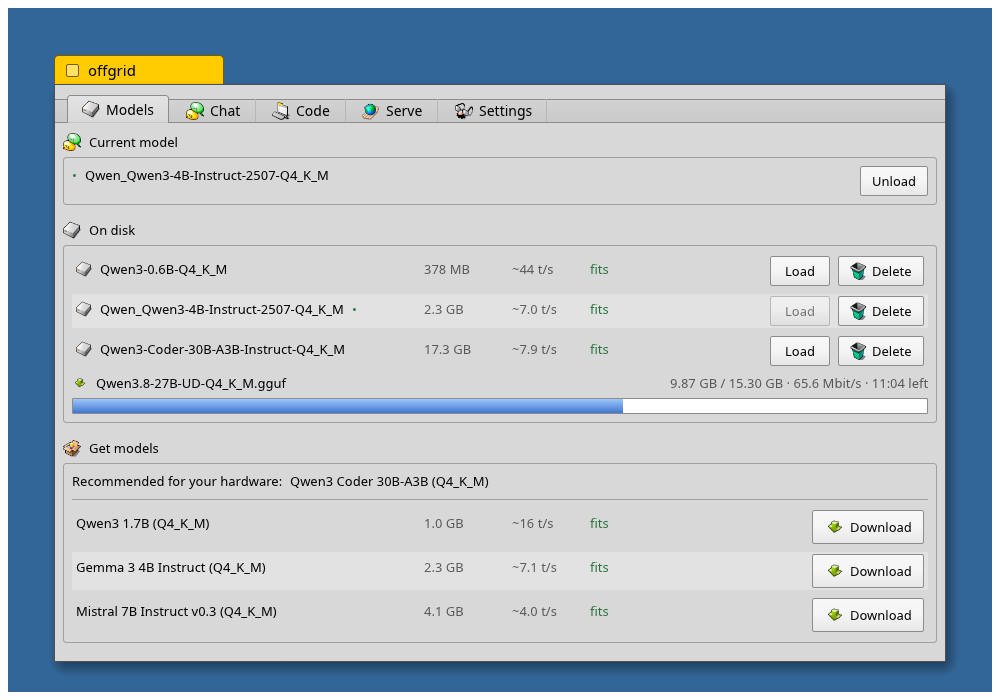
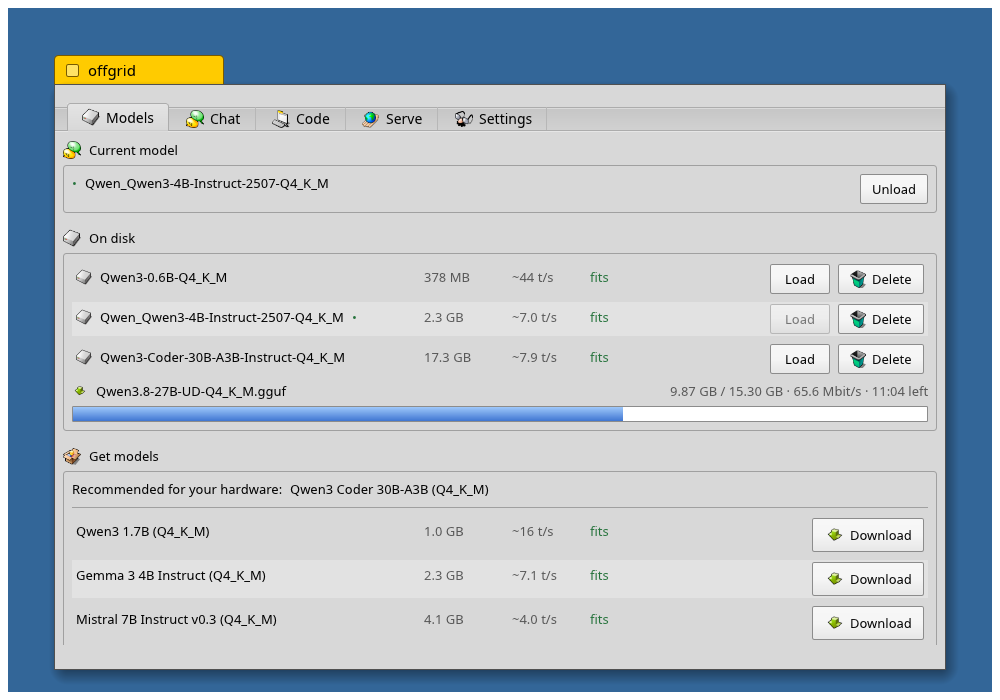
Tab bar refinements from the Haiku reference
- More headroom above the tabs
- Strip gradient inverted: darker at the top, lightening downward
- Fainter tab strokes (new tab_border skin color) with embossed edges:
  each dark line paired with a translucent light line beneath

diff --git a/src/theme.rs b/src/theme.rs
@@ -83,6 +83,8 @@ pub struct Skin {
     pub tab_active_top: Color32,
     /// Faint vertical divider between inactive tabs.
     pub tab_divider: Color32,
+    /// Faint outline for tabs/strip edges (embossed look).
+    pub tab_border: Color32,
     /// Primary accent (links, checkbox marks, selection stroke).
     pub accent: Color32,
     pub selection: Color32,
@@ -111,10 +113,11 @@ pub const HAIKU: Skin = Skin {
     window_border: Color32::from_rgb(80, 80, 80),
     title: Color32::from_rgb(255, 203, 0),
     title_border: Color32::from_rgb(120, 90, 0),
-    tab_strip_top: Color32::from_rgb(211, 211, 211),
-    tab_strip_bottom: Color32::from_rgb(201, 201, 201),
+    tab_strip_top: Color32::from_rgb(197, 197, 197),
+    tab_strip_bottom: Color32::from_rgb(209, 209, 209),
     tab_active_top: Color32::from_rgb(228, 228, 228),
     tab_divider: Color32::from_rgb(183, 183, 183),
+    tab_border: Color32::from_rgb(172, 172, 172),
     accent: Color32::from_rgb(51, 102, 152),
     selection: Color32::from_rgb(170, 200, 235),
     progress_top: Color32::from_rgb(158, 200, 250),
@@ -141,10 +144,11 @@ pub const EGUI_DEFAULT: Skin = Skin {
     window_border: Color32::from_gray(60),
     title: Color32::from_gray(60),
     title_border: Color32::from_gray(90),
-    tab_strip_top: Color32::from_gray(34),
-    tab_strip_bottom: Color32::from_gray(22),
+    tab_strip_top: Color32::from_gray(20),
+    tab_strip_bottom: Color32::from_gray(32),
     tab_active_top: Color32::from_gray(40),
     tab_divider: Color32::from_gray(55),
+    tab_border: Color32::from_gray(60),
     accent: Color32::from_rgb(110, 170, 255),
     selection: Color32::from_rgb(0, 92, 128),
     progress_top: Color32::from_rgb(110, 170, 255),
@@ -170,10 +174,11 @@ pub const MATERIAL: Skin = Skin {
     window_border: Color32::from_rgb(0xdf, 0xe3, 0xea),
     title: Color32::from_rgb(0xe9, 0xed, 0xf3),
     title_border: Color32::from_rgb(0xdf, 0xe3, 0xea),
-    tab_strip_top: Color32::from_rgb(0xee, 0xf1, 0xf6),
-    tab_strip_bottom: Color32::from_rgb(0xe4, 0xe8, 0xef),
+    tab_strip_top: Color32::from_rgb(0xe4, 0xe8, 0xef),
+    tab_strip_bottom: Color32::from_rgb(0xee, 0xf1, 0xf6),
     tab_active_top: Color32::WHITE,
     tab_divider: Color32::from_rgb(0xd5, 0xda, 0xe2),
+    tab_border: Color32::from_rgb(0xd0, 0xd6, 0xde),
     accent: Color32::from_rgb(0x11, 0x72, 0xdc),
     selection: Color32::from_rgb(0xc4, 0xe1, 0xfb),
     progress_top: Color32::from_rgb(0x5a, 0xa2, 0xee),
@@ -474,7 +479,8 @@ pub fn tab_bar<T: Copy + PartialEq>(
         sw: 0,
         se: 0,
     };
-    let border = Stroke::new(1.0, s.control_border);
+    let border = Stroke::new(1.0, s.tab_border);
+    let emboss = Stroke::new(1.0, Color32::from_white_alpha(90));
     let p = ui.painter();
     // The inactive area is a continuous strip running from window edge to
     // window edge (past the panel's inner margin); inactive tabs are just
@@ -485,15 +491,18 @@ pub fn tab_bar<T: Copy + PartialEq>(
     let strip =
         egui::Rect::from_min_max(egui::pos2(x0, baseline - strip_h), egui::pos2(x1, baseline));
     vertical_gradient(p, strip, s.tab_strip_top, s.tab_strip_bottom);
+    // Embossed top edge: faint dark line with a light line beneath.
     p.hline(x0..=x1, strip.min.y, border);
+    p.hline(x0..=x1, strip.min.y + 1.0, emboss);
     let divider = Stroke::new(1.0, s.tab_divider);
     for (i, (value, _, _)) in items.iter().enumerate() {
         if *current != *value {
             p.vline(rects[i].max.x, strip.min.y..=baseline, divider);
         }
     }
-    // Continuous baseline under the whole bar…
+    // Continuous baseline under the whole bar, embossed like the top edge…
     p.hline(x0..=x1, baseline, border);
+    p.hline(x0..=x1, baseline + 1.0, emboss);
     // …then the active tab painted over it, borderless at the bottom.
     if let Some(i) = items.iter().position(|(v, _, _)| *v == *current) {
         let r = rects[i];

diff --git a/src/app.rs b/src/app.rs
@@ -480,7 +480,7 @@ impl OffgridApp {
 
     fn top_bar(&mut self, ui: &mut egui::Ui) {
         // Plain grey strip above the tabs, like Haiku's window layouts.
-        ui.add_space(6.0);
+        ui.add_space(14.0);
         theme::tab_bar(
             ui,
             &mut self.tab,
@@ -1781,7 +1781,7 @@ mod tests {
         egui::Panel::top("top")
             .show_separator_line(false)
             .show(ui, |ui| {
-                ui.add_space(6.0);
+                ui.add_space(14.0);
                 let mut tab = Tab::Models;
                 theme::tab_bar(
                     ui,
